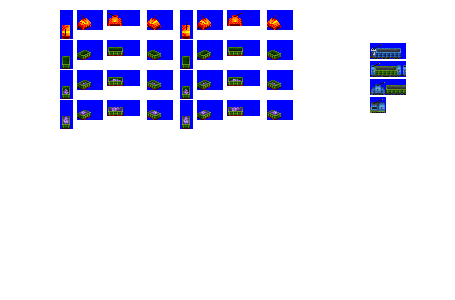
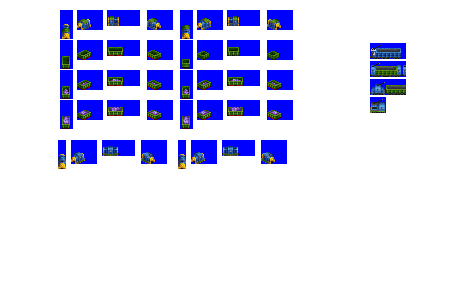
Change: add more Feldbhan vehicles

diff --git a/src/rosters/brit.py b/src/rosters/brit.py
@@ -24,11 +24,14 @@ from vehicles import (acton_pax_express,
                       cowsleigh_livestock,
                       crime_rigg_supplies,
                       dinkum_open,
+                      dora_flat,
                       drumbreck_tanker,
                       dugout_dump,
                       dumpling_dump,
+                      easdale_box,
                       easywheal_box,
                       eidsborg_dump,
+                      elterwater_box,
                       fairlop_pax,
                       flow_edge_edibles_tanker,
 #                      foreshore_intermodal, # deprecated, pending decision on container trucks being in or out
@@ -41,19 +44,23 @@ from vehicles import (acton_pax_express,
                       hawkmoor_dump,
                       highgate_pax,
                       honister_dump,
+                      ingleby_box,
                       intake_open,
                       jinglepot_open,
                       jubilee_open,
+                      kedge_flat,
                       knockdown_log,
                       ladycross_pax,
                       leyburn_pax,
                       limebreach_covered_hopper,
                       limpet_open,
                       littleduke_mail,
+                      loggan_box,
                       magee_dump,
                       mcdowell_covered_hopper,
                       meriden_tanker,
                       merrivale_refrigerated,
+                      mullion_flat,
                       nettlebridge_dump,
                       newbold_pax,
                       northbeach_pax,
@@ -84,6 +91,7 @@ from vehicles import (acton_pax_express,
                       stagrun_mail,
                       stakebeck_flat,
                       stancliffe_flat,
+                      stawell_flat,
                       steeraway_metal,
                       strongbox_mail,
                       stungun_livestock,
@@ -127,7 +135,7 @@ roster = Roster(id = 'brit',
                 # !! might be better to do it per consist, and then divide that over vehicles in capacity(), with allocation of remainders
                 unit_capacity_per_vehicle_type = {'bus': [1, 44, 50, 60, 72],
                                                   'coach': [1, 2, 30, 40, 40],
-                                                  'feldbahn': [20, 24, 28, 32],
+                                                  'feldbahn': [20, 20, 20, 20],
                                                   'freight_tram': [16, 30, 36], # num units varies between generations, so eh :x
                                                   'freight_truck': [1, 12, 15, 20, 20, 20],
                                                   'lolz': [1, 2, 3, 4, 5, 6],
@@ -228,6 +236,14 @@ roster = Roster(id = 'brit',
                             limpet_open,
                             jubilee_open,
                             dinkum_open,
+                            easdale_box,
+                            ingleby_box,
+                            elterwater_box,
+                            loggan_box,
+                            mullion_flat,
+                            stawell_flat,
+                            kedge_flat,
+                            dora_flat,
                             dumpling_dump,
                             dugout_dump,
                             eidsborg_dump,

diff --git a/src/road_vehicle.py b/src/road_vehicle.py
@@ -193,8 +193,9 @@ class Consist(object):
 
     @property
     def running_cost(self):
-        # type_base_running_cost_points is an arbitrary adjustment that can be applied on a type-by-type basis,
-        return self.get_engine_cost_points()  + self.type_base_running_cost_points
+        # type_base_running_cost_points is an arbitrary adjustment that can be applied on a type-by-type basis
+        # cap to int for nml reasons
+        return int(self.get_engine_cost_points()  + self.type_base_running_cost_points)
 
     @property
     def intro_date(self):
@@ -494,6 +495,14 @@ class BoxHaulerConsistBase(Consist):
         self.weight_multiplier = 0.45
 
 
+class BoxFeldbahnConsist(BoxHaulerConsistBase, TrackTypeMixinFeldbahn):
+    """
+    Box Feldbahn.
+    """
+    def __init__(self, **kwargs):
+        super().__init__(**kwargs)
+
+
 class BoxTramConsist(BoxHaulerConsistBase, TrackTypeMixinTram):
     """
     Box tram.
@@ -639,6 +648,14 @@ class FlatbedHaulerConsistBase(Consist):
         self.default_cargos = global_constants.default_cargos['flat']
         # Graphics configuration
         self.gestalt_graphics = GestaltGraphicsVisibleCargo(piece='flat')
+
+
+class FlatFeldbahnConsist(FlatbedHaulerConsistBase, TrackTypeMixinFeldbahn):
+    """
+    Flatbed feldbahn.
+    """
+    def __init__(self, **kwargs):
+        super().__init__(**kwargs)
 
 
 class FlatbedTramConsist(FlatbedHaulerConsistBase, TrackTypeMixinTram):

diff --git a/src/vehicles/elterwater_box.py b/src/vehicles/elterwater_box.py
@@ -1,9 +1,9 @@
-from road_vehicle import DumpFeldbahnConsist
+from road_vehicle import BoxFeldbahnConsist
 from base_platforms.feldbahn import DieselEngineFeldbahn1, OpenWagonFeldbahnGen3
 
-consist = DumpFeldbahnConsist(id='eidsborg_dump',
-                       base_numeric_id=140,
-                       name='Eidsborg',
+consist = BoxFeldbahnConsist(id='elterwater_box',
+                       base_numeric_id=970,
+                       name='Elterwater',
                        gen=3)
 
 consist.add_unit(base_platform=DieselEngineFeldbahn1)

diff --git a/src/vehicles/mullion_flat.py b/src/vehicles/mullion_flat.py
@@ -1,9 +1,9 @@
-from road_vehicle import DumpFeldbahnConsist
+from road_vehicle import FlatFeldbahnConsist
 from base_platforms.feldbahn import DieselEngineFeldbahn1, OpenWagonFeldbahnGen3
 
-consist = DumpFeldbahnConsist(id='eidsborg_dump',
-                       base_numeric_id=140,
-                       name='Eidsborg',
+consist = FlatFeldbahnConsist(id='mullion_flat',
+                       base_numeric_id=1040,
+                       name='Mullion',
                        gen=3)
 
 consist.add_unit(base_platform=DieselEngineFeldbahn1)

diff --git a/src/vehicles/stawell_flat.py b/src/vehicles/stawell_flat.py
@@ -1,9 +1,9 @@
-from road_vehicle import DumpFeldbahnConsist
+from road_vehicle import FlatFeldbahnConsist
 from base_platforms.feldbahn import DieselEngineFeldbahn1, OpenWagonFeldbahnGen3
 
-consist = DumpFeldbahnConsist(id='eidsborg_dump',
-                       base_numeric_id=140,
-                       name='Eidsborg',
+consist = FlatFeldbahnConsist(id='stawell_flat',
+                       base_numeric_id=1050,
+                       name='Stawell',
                        gen=3)
 
 consist.add_unit(base_platform=DieselEngineFeldbahn1)

diff --git a/src/vehicles/ingleby_box.py b/src/vehicles/ingleby_box.py
@@ -1,9 +1,9 @@
-from road_vehicle import DumpFeldbahnConsist
+from road_vehicle import BoxFeldbahnConsist
 from base_platforms.feldbahn import DieselEngineFeldbahn1, OpenWagonFeldbahnGen3
 
-consist = DumpFeldbahnConsist(id='eidsborg_dump',
-                       base_numeric_id=140,
-                       name='Eidsborg',
+consist = BoxFeldbahnConsist(id='ingleby_box',
+                       base_numeric_id=1000,
+                       name='Ingleby',
                        gen=3)
 
 consist.add_unit(base_platform=DieselEngineFeldbahn1)

diff --git a/src/vehicles/easdale_box.py b/src/vehicles/easdale_box.py
@@ -1,9 +1,9 @@
-from road_vehicle import DumpFeldbahnConsist
+from road_vehicle import BoxFeldbahnConsist
 from base_platforms.feldbahn import DieselEngineFeldbahn1, OpenWagonFeldbahnGen3
 
-consist = DumpFeldbahnConsist(id='eidsborg_dump',
-                       base_numeric_id=140,
-                       name='Eidsborg',
+consist = BoxFeldbahnConsist(id='easdale_box',
+                       base_numeric_id=620,
+                       name='Easdale',
                        gen=3)
 
 consist.add_unit(base_platform=DieselEngineFeldbahn1)

diff --git a/src/vehicles/kedge_flat.py b/src/vehicles/kedge_flat.py
@@ -1,9 +1,9 @@
-from road_vehicle import DumpFeldbahnConsist
+from road_vehicle import FlatFeldbahnConsist
 from base_platforms.feldbahn import DieselEngineFeldbahn1, OpenWagonFeldbahnGen3
 
-consist = DumpFeldbahnConsist(id='eidsborg_dump',
-                       base_numeric_id=140,
-                       name='Eidsborg',
+consist = FlatFeldbahnConsist(id='kedge_flat',
+                       base_numeric_id=1060,
+                       name='Kedge',
                        gen=3)
 
 consist.add_unit(base_platform=DieselEngineFeldbahn1)

diff --git a/src/vehicles/loggan_box.py b/src/vehicles/loggan_box.py
@@ -1,9 +1,9 @@
-from road_vehicle import DumpFeldbahnConsist
+from road_vehicle import BoxFeldbahnConsist
 from base_platforms.feldbahn import DieselEngineFeldbahn1, OpenWagonFeldbahnGen3
 
-consist = DumpFeldbahnConsist(id='eidsborg_dump',
-                       base_numeric_id=140,
-                       name='Eidsborg',
+consist = BoxFeldbahnConsist(id='loggan_box',
+                       base_numeric_id=1030,
+                       name='Loggan',
                        gen=3)
 
 consist.add_unit(base_platform=DieselEngineFeldbahn1)

diff --git a/src/vehicles/dora_flat.py b/src/vehicles/dora_flat.py
@@ -1,9 +1,9 @@
-from road_vehicle import DumpFeldbahnConsist
+from road_vehicle import FlatFeldbahnConsist
 from base_platforms.feldbahn import DieselEngineFeldbahn1, OpenWagonFeldbahnGen3
 
-consist = DumpFeldbahnConsist(id='eidsborg_dump',
-                       base_numeric_id=140,
-                       name='Eidsborg',
+consist = FlatFeldbahnConsist(id='dora_flat',
+                       base_numeric_id=1070,
+                       name='Dora',
                        gen=3)
 
 consist.add_unit(base_platform=DieselEngineFeldbahn1)

diff --git a/src/base_platforms/feldbahn.py b/src/base_platforms/feldbahn.py
@@ -21,7 +21,7 @@ class SteamEngineFeldbahn2(EngineFeldbahnBase):
 
 class DieselEngineFeldbahn1(EngineFeldbahnBase):
     type = DieselVehicleUnit
-    vehicle_length = 4
+    vehicle_length = 3
 
 
 class DieselEngineFeldbahn2(EngineFeldbahnBase):
@@ -47,7 +47,7 @@ class OpenWagonFeldbahnGen2(BasePlatform):
 
 
 class OpenWagonFeldbahnGen3(BasePlatform):
-    vehicle_length = 4
+    vehicle_length = 3
     cargo_length = 3
 
 

diff --git a/src/vehicles/magee_dump.py b/src/vehicles/magee_dump.py
@@ -9,4 +9,4 @@ consist = DumpFeldbahnConsist(id='magee_dump',
 consist.add_unit(base_platform=DieselEngineFeldbahn2)
 
 consist.add_unit(base_platform=OpenWagonFeldbahnGen3,
-                 repeat=3)
+                 repeat=12) # 12 * 3 = 36, then +4 for engine = 40, 2.5 tiles,  integer tile lengths  are not needed for RVs
